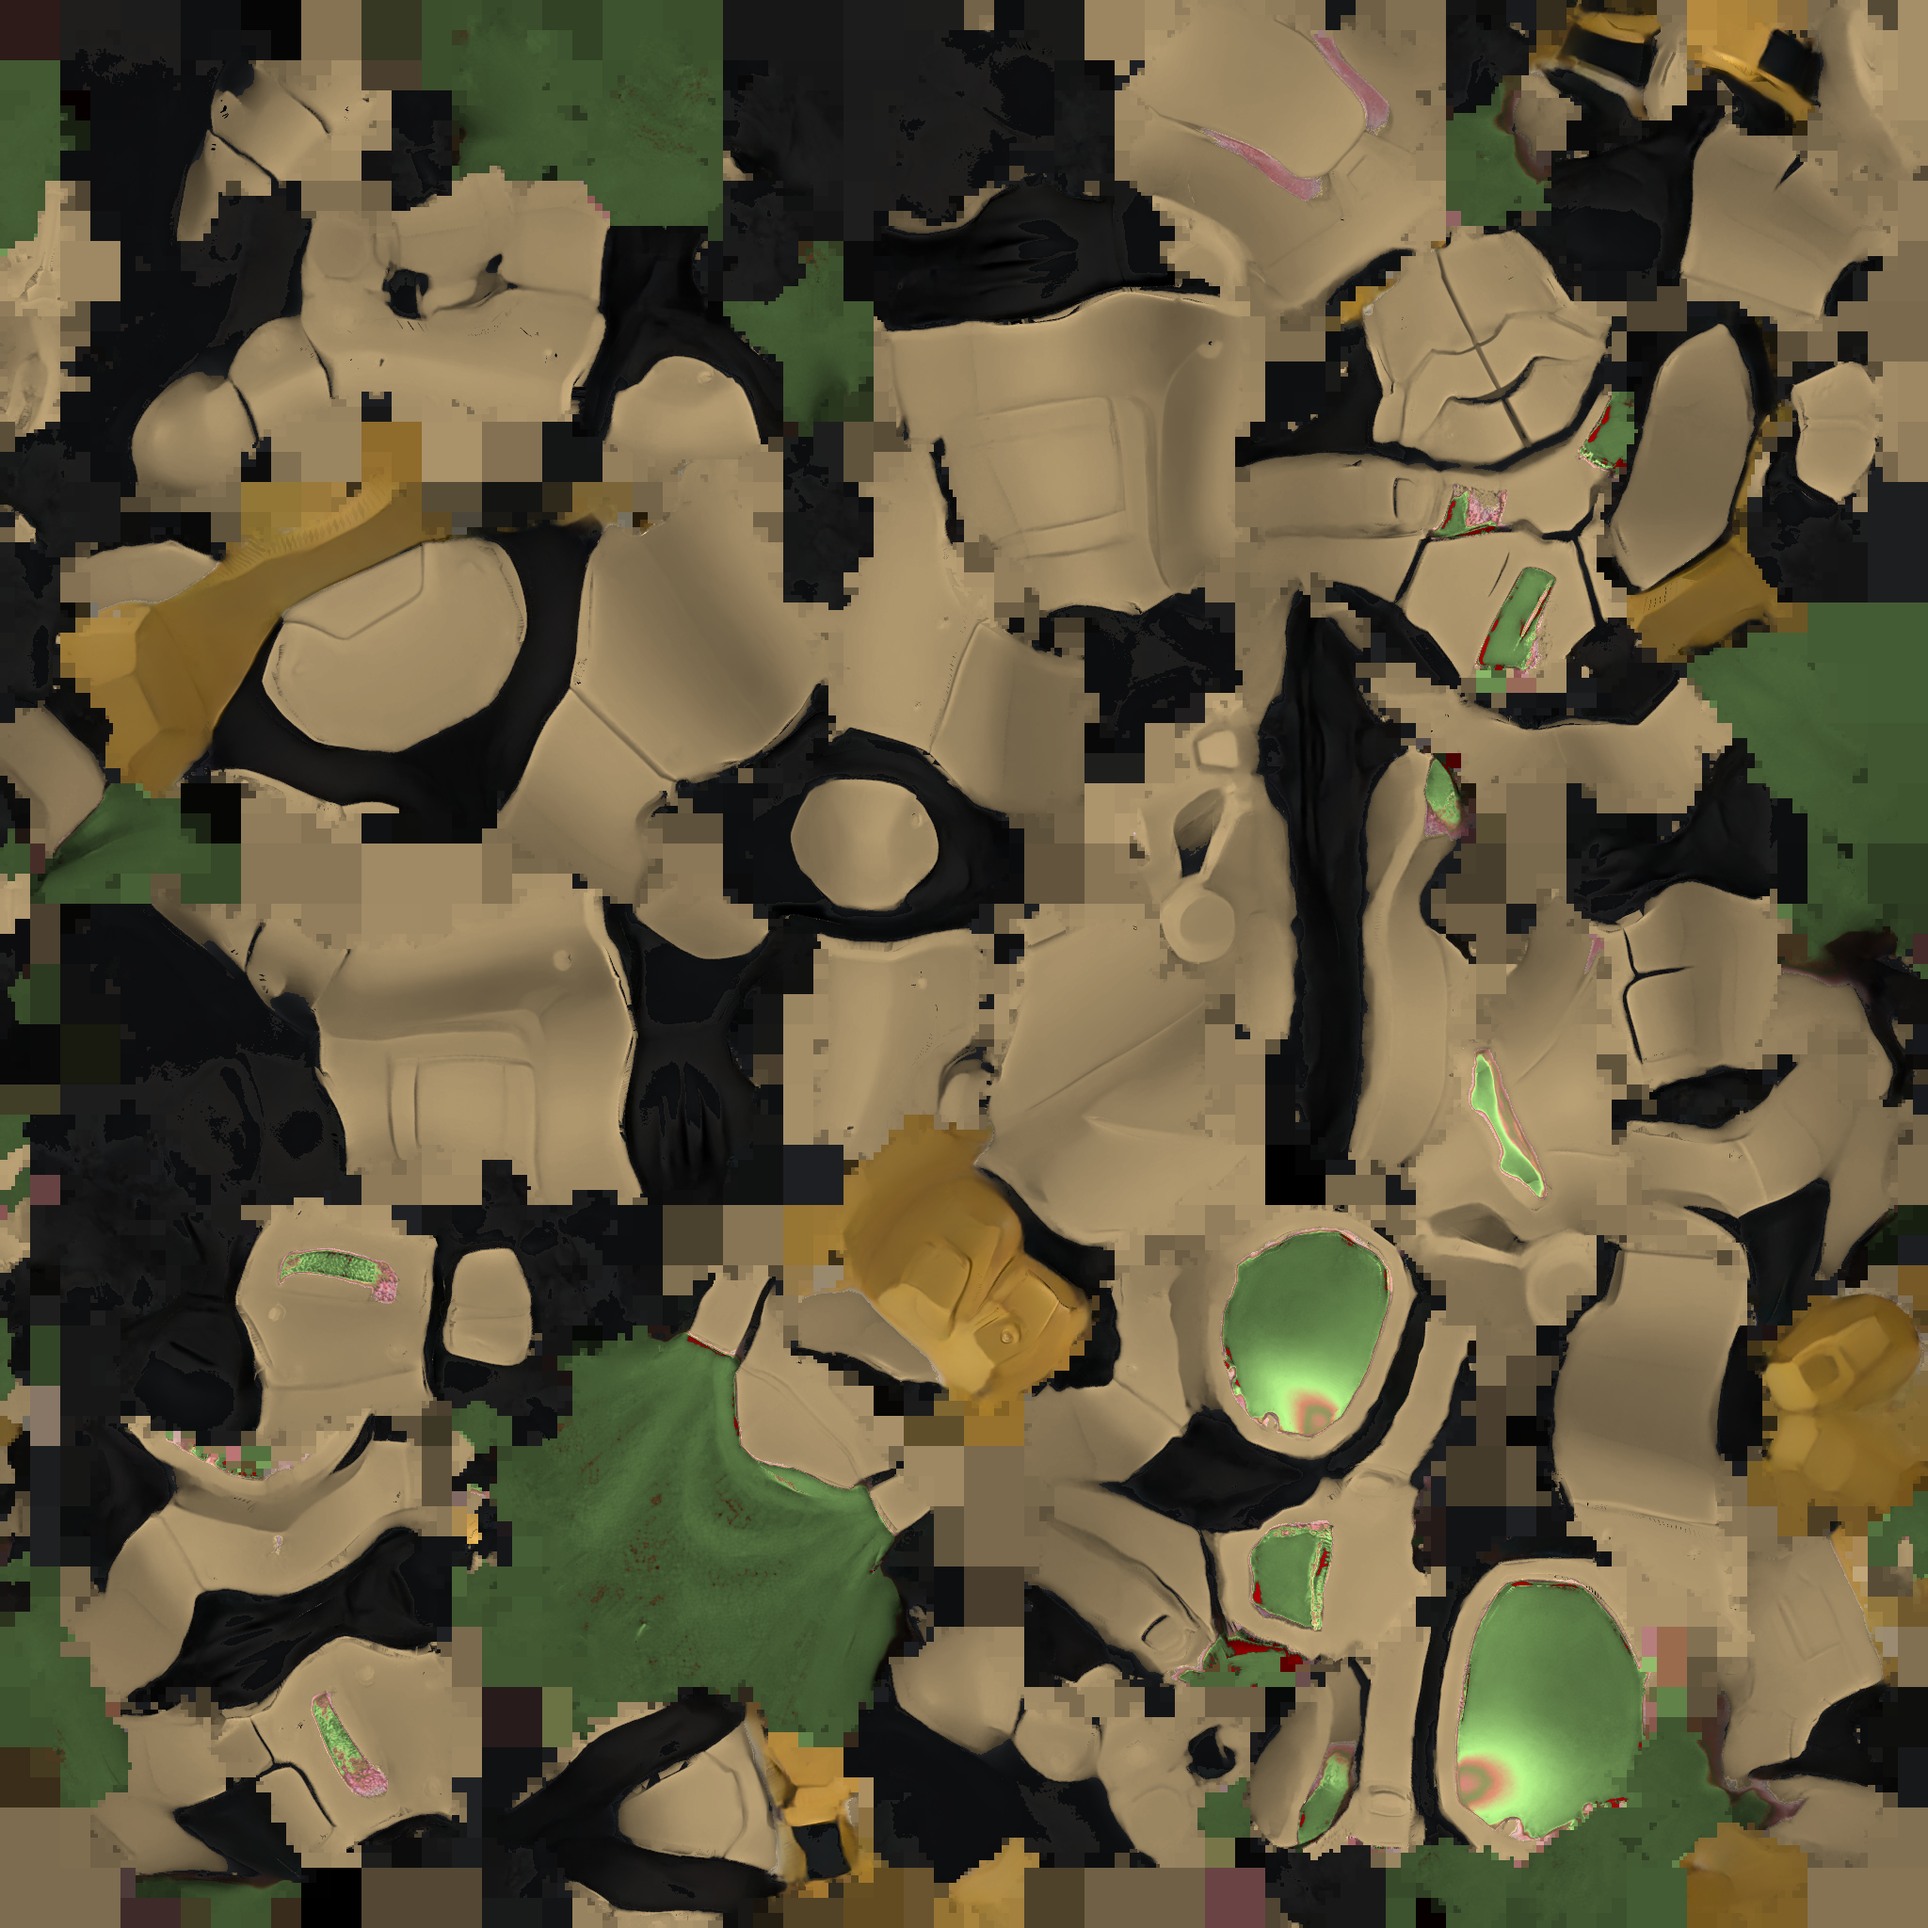
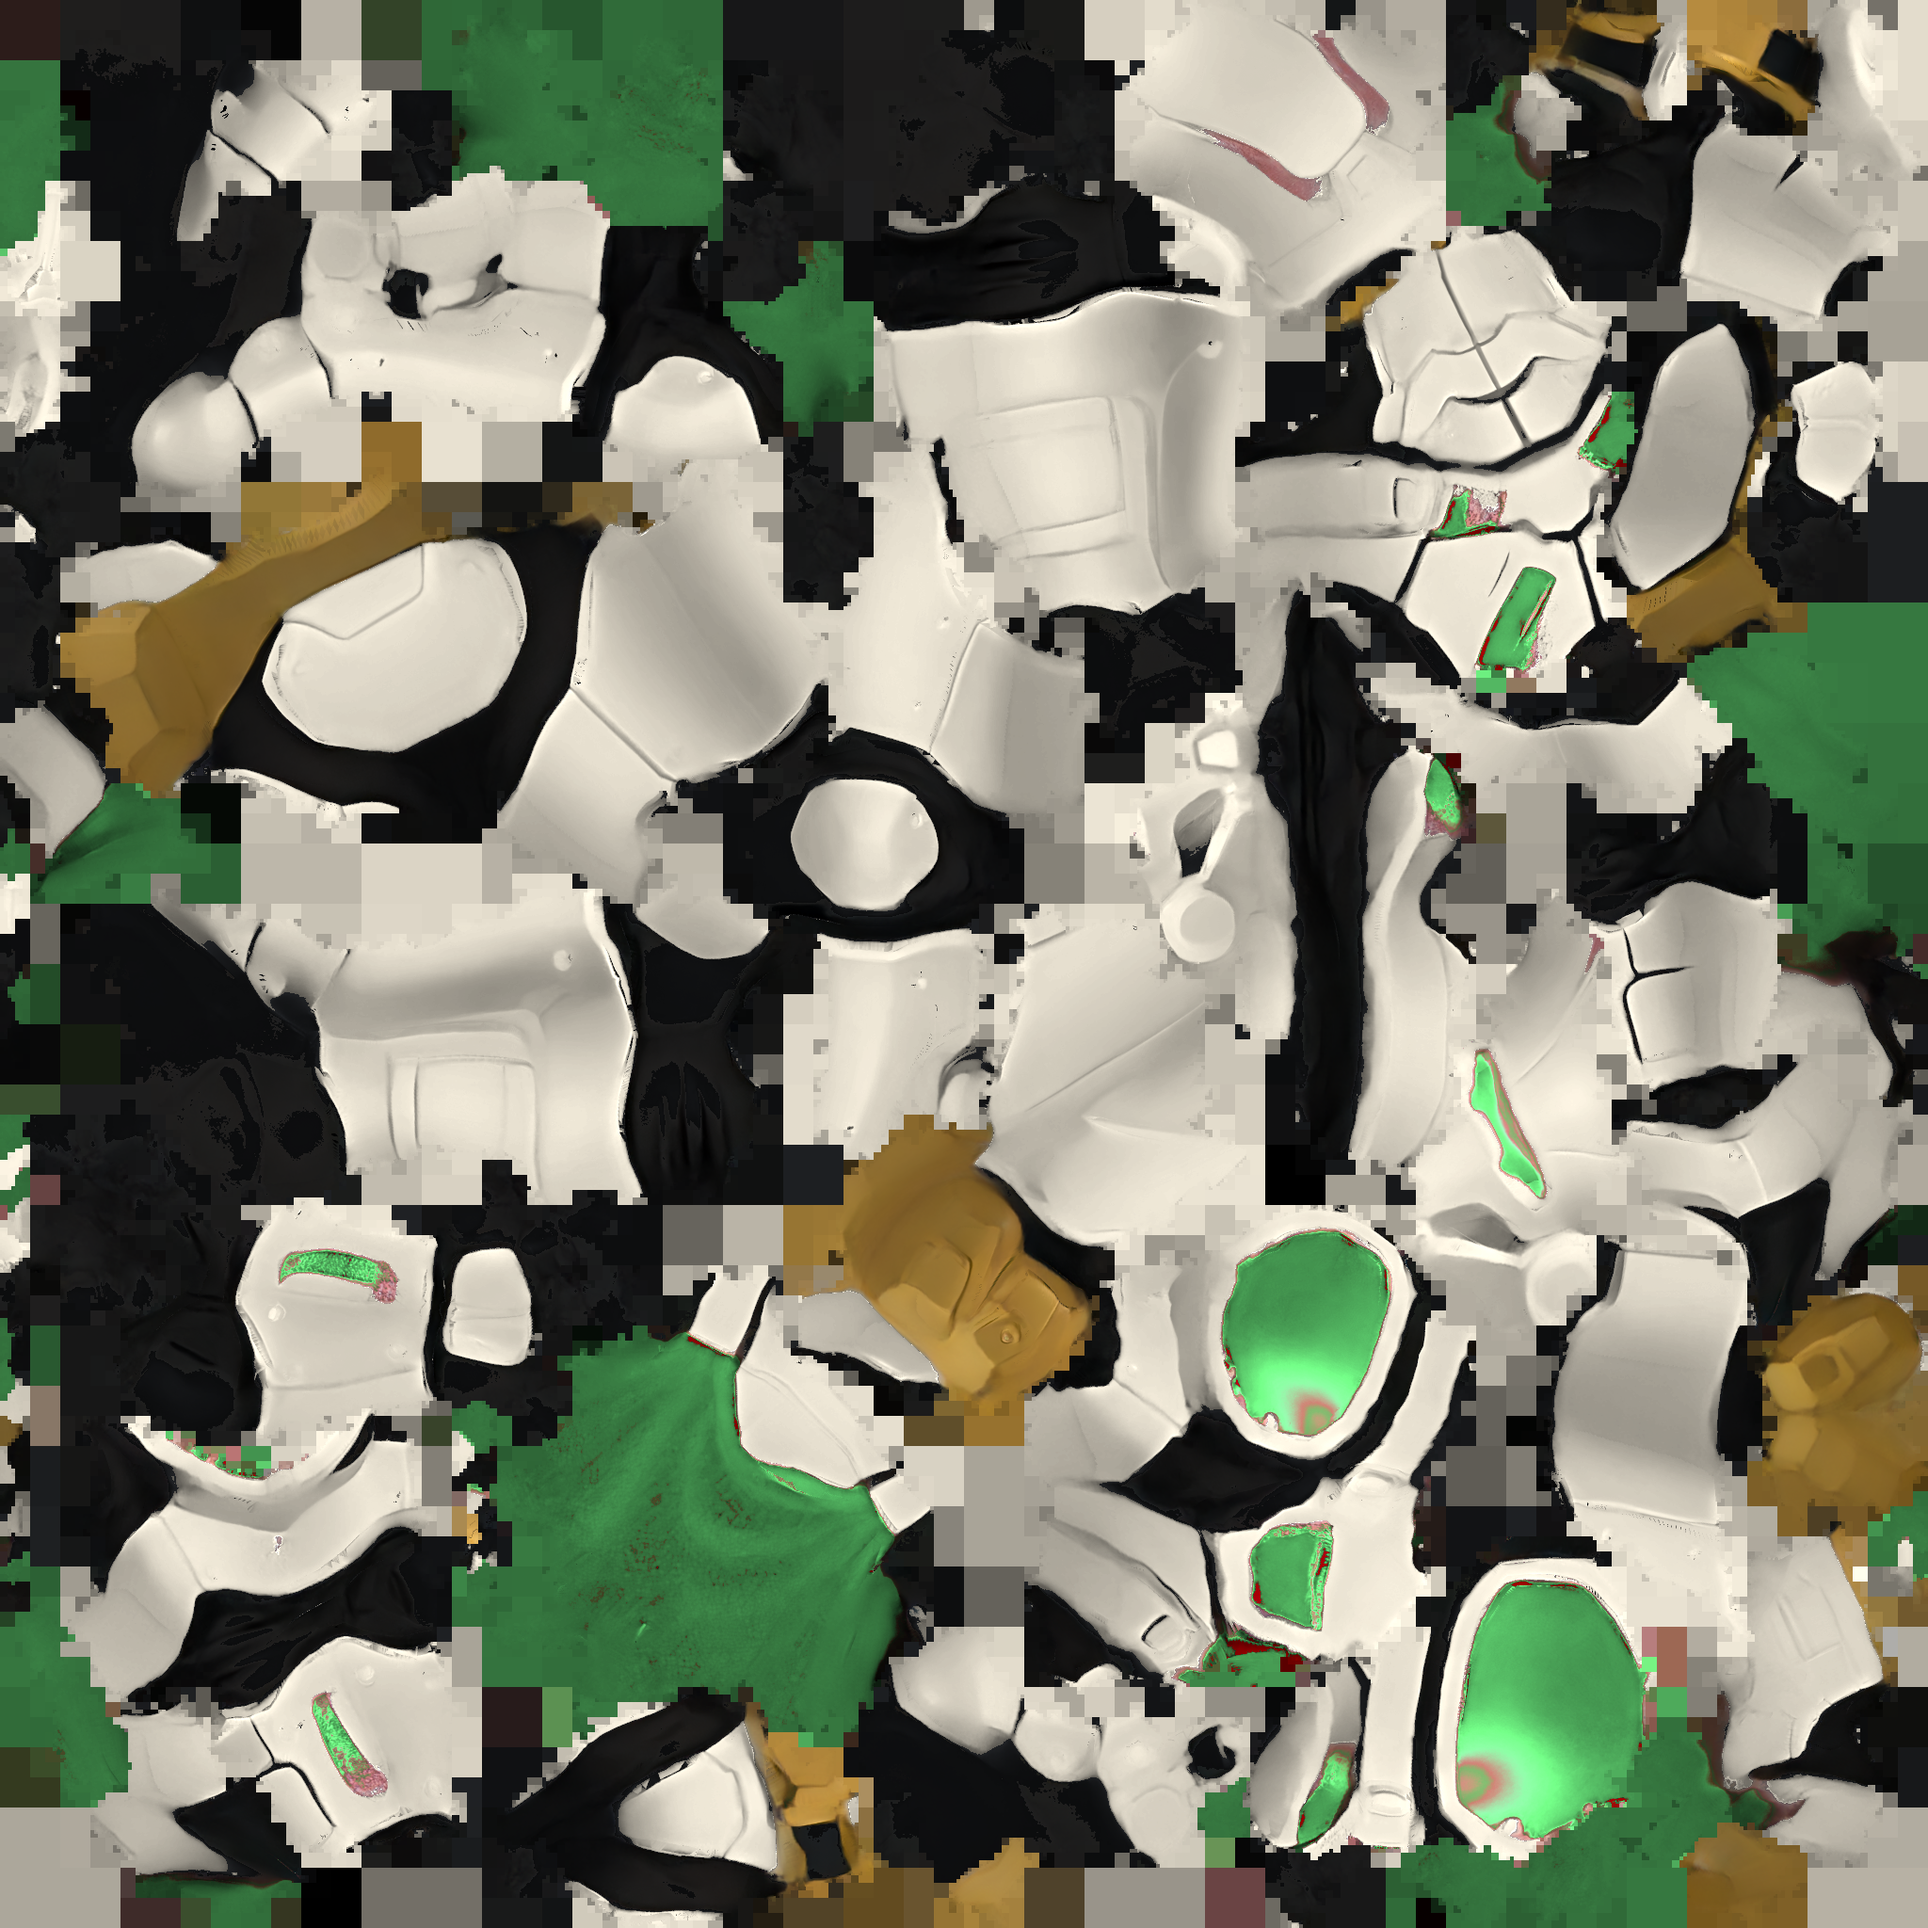
Local guards in bone white and green; the barracks, gate, wall and towers turn green when the locals hold them
Issue #393. The locals' guard (desert_guard, guard:locals) is the trooper kit
recoloured: bone-white plate, green trim and visor, sand cloth. The Remnant's
red marks on the barracks, the gate towers, the lintel, the town wall and the
watchtower banners, and an outpost's band, door frame and lamps, are made
through LookMaterials.faction_* and repainted in place with the guard swap
(the town with the barracks, each outpost on its own). Colours by role in
content/look/town_styles.json "factions".

diff --git a/DECISIONS.md b/DECISIONS.md
@@ -2,6 +2,28 @@
 
 Every significant technical choice, the alternative, and why. Newest on top.
 
+## 2026-11-01 — Places repaint for whoever holds them (issue #393)
+
+- **Repaint the materials in place, never rebuild the meshes.** The Remnant's
+  red marks (the barracks' bands, the gate towers, the lintel, the wall, the
+  watchtower banners, an outpost's band, door frame and lamps) are made through
+  `LookMaterials.faction_*`, which remembers each material and its role, and
+  `repaint(owner, group)` sets the colour on the material the meshes already
+  share. Alternative: re-dress the barracks and the outposts on a swap.
+  Rejected: the town's buildings are batched into MultiMeshes and the swap
+  happens out of sight anyway; a parameter change is free and cannot leave a
+  half-built block.
+- **The town is one group, each outpost its own.** The town follows the
+  barracks' owner with the guard swap (`_locals_take_barracks`,
+  `_return_town_remnant`); an outpost follows `RemnantOutposts.swap`. An
+  outpost's flats are duplicated out of the shared cache so one outpost can be
+  green while the next is red.
+- **Colours are data by role** (`content/look/town_styles.json` `factions`:
+  `band`, `wall`, `mark`, `lamp`), so the holo table or the F1 screen can read
+  the same two colours later. The locals' guard is the trooper kit recoloured
+  (`guard:locals`: bone plate, green trim), not white: the art direction keeps
+  white armour out.
+
 ## 2026-11-01 — A story save and a free roam save, side by side
 
 - **One file per mode** (`SaveSlots`: `save_story.json`, `save_freeplay.json`),

diff --git a/docs/ART_DIRECTION.md b/docs/ART_DIRECTION.md
@@ -117,6 +117,7 @@ them by id. Tuning a preset means editing JSON and re-shooting, never editing co
 | Smuggler (player option) | Wide hat, long flared duster, low gun belt | Sand leather, dark trousers, teal scarf | Goggles over a dark face wrap, coil pistol, bandolier |
 | Duelist | Lean, wide stance; asymmetric rust mantle | Charcoal wraps, rust, madder sash | Sculpted pale mask with one slit; **yellow energy sword** |
 | Local | Loose and draped: head scarf, linen shirt, linen trousers | Sand, or a dye per part (darker, lighter, blue, red, yellow) | Scarf and goggles with black lenses, no face; parts mix and match |
+| Local guard (issue #393) | The trooper's plated slab, recoloured | Bone-white plate (never pure white), green trim and visor, sand cloth | Reads as the locals' at a glance next to a gunmetal trooper; the places they hold turn green where the Remnant painted red |
 
 - **Faces are covered.** Helmets, goggles, wraps and masks. It avoids the uncanny
   valley and saves months.
